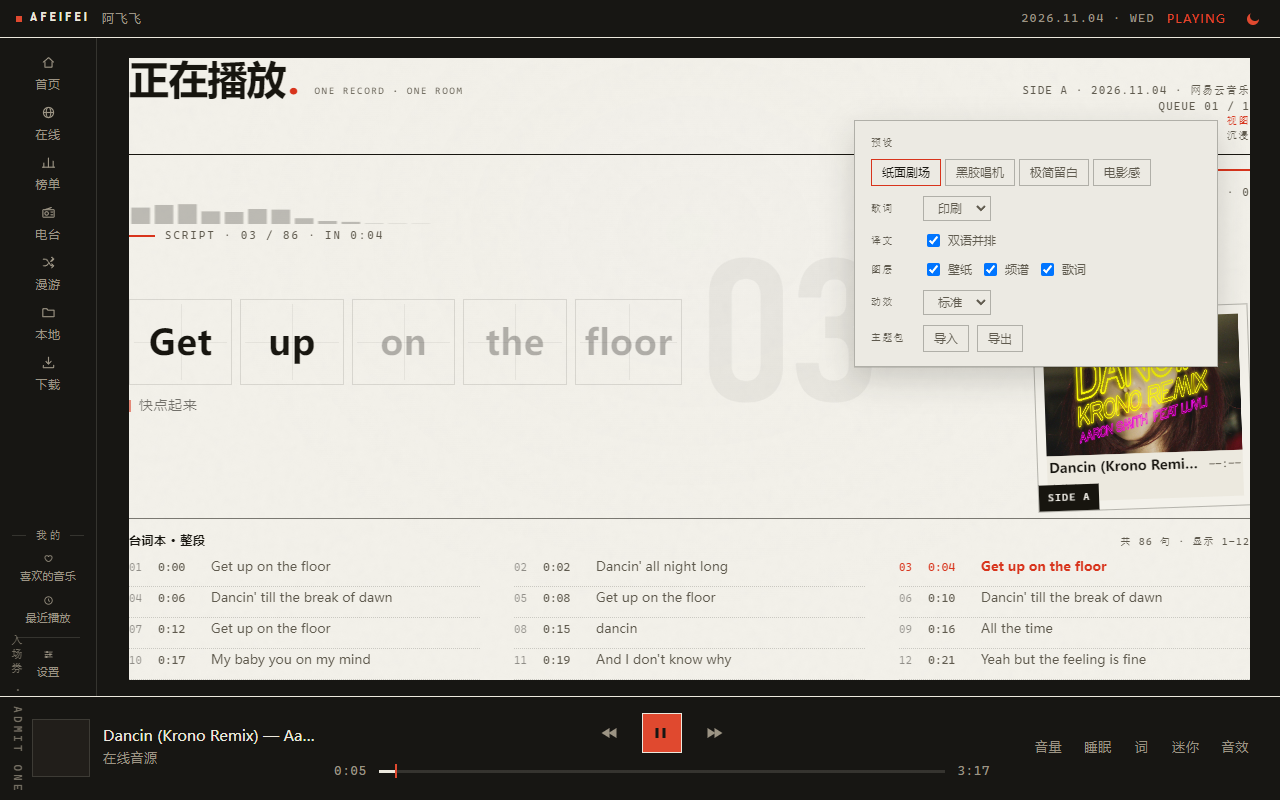
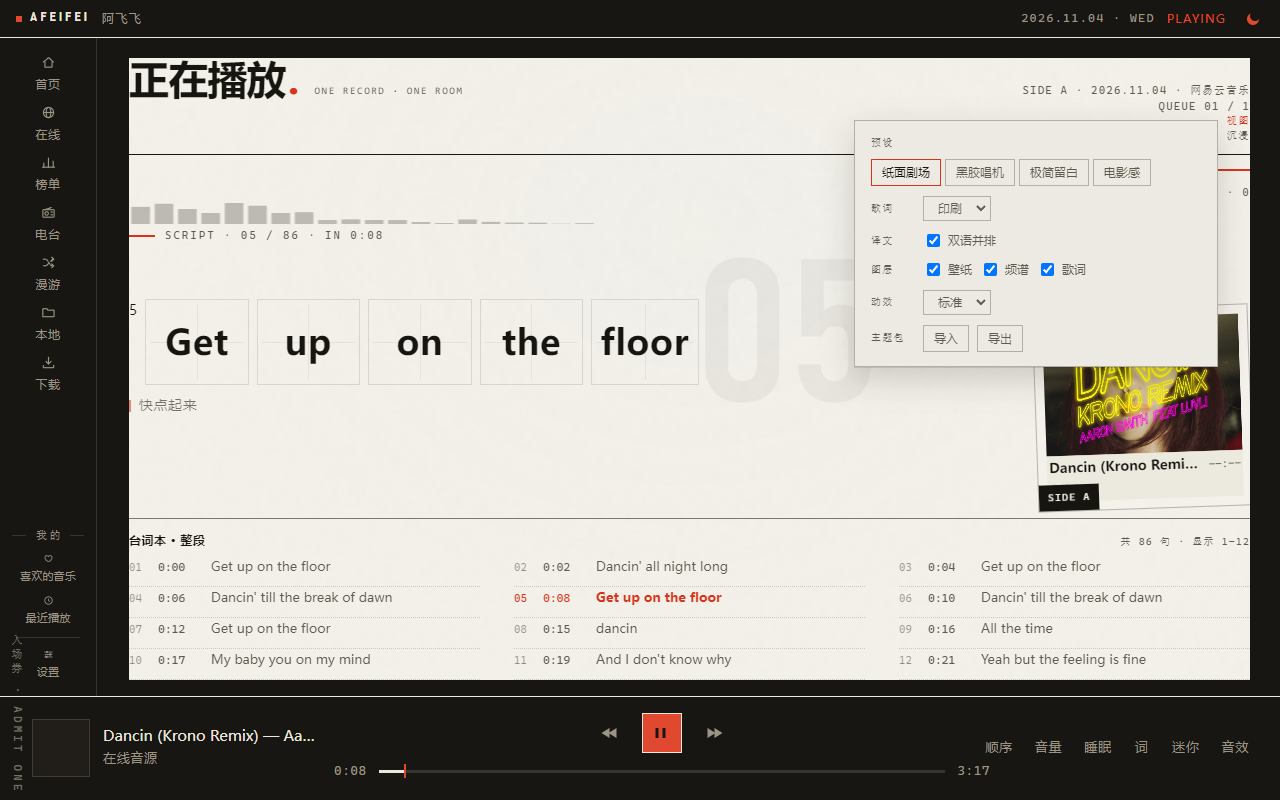
gate: 真机判据加 A-18/A-24 行为关（媒体会话/媒体键归属/全局快捷键注册）+ 单曲与随机两条降为记录型（上游 resolve 影响）+ docs/01 §7.1 先抄后造 / docs/02 取用台账 / docs/03 日志

diff --git a/docs/03-改动日志.md b/docs/03-改动日志.md
@@ -4,6 +4,38 @@
 
 ---
 
+## 2026-11-04 · 基础功能补齐：系统媒体会话 / 播放模式 / 全局快捷键 + 三个语义 bug 修正
+
+- **commit**：见下三笔（feature / fix / gate+docs）
+- **动机**：用户 2026-11-04 定「**先把一个播放器该有的功能做好，再添砖加瓦**；缺功能或不合理的，去 `F:\AI\mp-refs` 找最优解直接抄」。于是先做了一次基础功能盘点（20 项），再按缺口动手。
+- **改了**：
+  - **A-24 系统媒体会话**：`ui/media-session.ts`（新）抄 lx 的 `useMediaSessionInfo.ts` —— 静音保活 + metadata 异步换图 + 9 个 action handler + setPositionState；`main/mediaKeys.ts` 从"主路径"降为**兜底**（渲染层上报 MediaSession 可用 → 主进程注销 globalShortcut，避免**双触发**：按一次切两首）
+  - **A-18 播放模式**：页脚加「顺序/循环/单曲/随机」按钮（`ui/play-mode.ts`，档位与文案抄 lx）；命令面板同步可切
+  - **A-24 全局快捷键**（新功能）：`domain/shortcuts`（规则层：白名单/冲突检测/归一，抄 folia 的分层）+ `main/globalShortcuts.ts`（全量重注册 + 结果回报，抄 Twilight_Echo）+ 设置页录键区块（抄 Twilight_Echo 的录键边界）；7 个动作，键位存本机独立档
+  - **修 bug 1**：单曲循环下点「下一首」会重播本曲 → 按 lx 的 `isAutoToggle` 双路径改（手动切歌按列表走，自然结束才重播）
+  - **修 bug 2**：随机模式下界面「接下来」显示的是原顺序，不是真会播的那几首 → stage 改用 `orderOf` 投影，编号显示播放序位次；QUEUE 位次口径统一
+  - **修 bug 3**：切到随机时种子不变 → 每次进随机都是同一个排列（用户看着像"随机没生效"）→ 加 `nextShuffleSeed`（LCG 递进，纯函数）
+  - **修 bug 4**：播放错误只显示原始码（用户看不懂）→ 显示 `errorText` 人话 + 可重试错误给「重试」按钮
+  - **新功能**：「添加到队列」（`queue/add` intent，追加不打断播放；曲库行内 ≡ 按钮）
+  - `docs/01` 新增 §7.1「功能件：先抄后造」；`docs/02` 登记本轮 6 处取用
+- **关键决策**：① 媒体键不再由 globalShortcut 主路径承担 —— Chromium MediaSession 才是 Windows 上的正解（lx v2.2.0 已删全局媒体键注册）；② 抄的边界：**语义 + 结构 + 边界条件**照抄，事件系统/状态管理不抄；③ 真机判据观测点从"曲名"改成"队列位次"—— 在线曲目切歌要先 resolve vkey，曲名几十秒才变，位次才是准绳。
+- **坑**：
+  - `globalShortcut` 与 SMTC **同时**注册媒体键 = 按一次切两首（能力协商后才不双触发）
+  - rail 里**没有"播放"页**（播放页是点页脚 `.np` 封面进的）——判据里 `.textContent.includes('播放')` 点不到
+  - 沉浸态窄窗判定若靠 JS 的 resize 事件会迟到 → 改成 **CSS 媒体查询做主**（视口宽度是浏览器的事实），JS 类名只做语义标记
+  - `.st-viewbtn` 的**顺序**不能反：真机判据用 `querySelector('.st-viewbtn')` 取「视图」，「沉浸」必须排在后面
+  - smoke 偶发 `EPERM rename app-state.json.tmp` → Windows 文件锁 + 多实例写同一档案（重跑即绿，非本次改动引入）
+  - PERF 相对基线判定连续判红（3 轮绝对预算全 PASS、路径未动）→ 环境波动，未动基线
+- **判据**：真机全链绿（自愈扫描 → A-04/A-07/A-18/**A-24 媒体会话 + 主进程媒体键归属 + 全局快捷键 6 项已注册**/b2 沉浸态/A-10/A-02/A-03/A-14 双源/FM/搜索骨架/QQ 起播）；393 测试绿；lint/tsc/build/SMOKE PASS
+- **自评（开发尺）**：功能正确 24（−1：在线曲目无真实时长，相纸/进度显示 `--:--`）/ 不变式 19（−1：媒体键归属要靠能力协商，不是"天然只有一个写者"）/ 判据可红 17（−3：单曲切歌与随机显示两条真机判据因上游解析降为记录型，语义由单测钉住）/ 回归安全 15 / 规模 9（−1：ui/index.tsx 已 ~950 行）/ 诚实 10。**94** —— 差 1 分到 95，扣分项具体：① `ui/index.tsx` 超 400 行承载过多职责（媒体会话/快捷键/模式按钮/错误重试都塞在 App 根）；② 两条真机行为判据降级。**下一轮先拆分 App 根组件 + 把这两条判据重新变成硬判据**（用本地文件队列避免上游依赖）
+- **遗留**：
+  - **基础功能还没做的**（按优先级）：播放速度/倍速 UI、队列完整管理（能看全队列/下移/清空）、音量渐变、音质切换 UI（底层支持 128k/320k/flac，界面写死 320k）、音频输出设备选择（setSinkId）、无缝衔接 gapless、歌词/封面源设置、重复区间 AB
+  - 外观类暂挂（用户定"外观先不做"）：A-10 判据里 `.st-kb` 的 color 亮态读到 rgb(23,21,15)（外壳夜间 fg）→ 疑似 `.st-kb` 走了结构层 `--fg` 而非 `--stage-fg`，待专门排查
+  - 桌面歌词"切换"现在走主进程 `lyric:toggle`（渲染层看不到别的窗口，状态只能在主进程）
+  - 播放错误文案改动后，smoke 判据从"显示原始码"改为"显示人话 + 不可重试错误不给重试按钮"
+
+---
+
 ## 2026-11-04 · b2 沉浸态（stage-v10 b2「刻纹现场」）+ 真机判据真实化
 
 - **commit**：见下两笔（ui / gate）

diff --git a/docs/02-取用台账.md b/docs/02-取用台账.md
@@ -12,6 +12,12 @@
 | `NeteaseCloudMusicApi`（npm，MIT，4.32.0） | 第三方依赖 | 网易云 weapi/eapi 加密通道自己写成本高且易错；Folia 用的是同一套做法。只在主进程 `main/net/neteaseClient.ts` 内嵌，不进渲染 bundle |
 | ~~`qq-music-api`~~（npm，**无 license**，1.1.2） | 第三方依赖 | **已于 2026-11-03 移除**。无 license 未取用；已被下面的 MIT 包取代 |
 | `@yakult-green-tea/qq-music-api`（npm，**MIT**，3.3.5） | 第三方依赖 | QQ 扫码登录（MQTT/HTTP 双通道）+ 登录态会话 + 登录态播放地址，整包作为本地服务由主进程拉起（Folia 生产同款）。手写 ptlogin 协议被 TLS 指纹风控拒（2026-11-03 实测），"先验后写"在协议层不可行——换"用别人验证过的实现" |
+| **系统媒体会话**（MediaSession：静音保活 + 9 个 action handler + setPositionState） | `F:\AI\mp-refs\lx-music-desktop\src\renderer\core\useApp\usePlayer\useMediaSessionInfo.ts` | Windows 上 SMTC（系统媒体面板：封面/歌名/进度/媒体键）没有自研路径，Chromium 的 MediaSession 就是标准做法。lx 这份是"静音保活 + metadata 异步换图 + 9 个 handler"的完整版，比从零写省事且不漏 handler |
+| **全局快捷键**（动作表 + 全量重注册 + 注册结果回报） | `F:\AI\mp-refs\Twilight_Echo\src\main\integrations\shortcutsTray.ts` + `src\core\settings\normalization.ts` | 应用未聚焦也要能控播放，是桌面播放器的标配；Twilight_Echo 的结构（先全量注销再全量注册、逐项收集注册结果、失败原因回传渲染层）能直接落到我们的主进程/渲染层分工上 |
+| **快捷键规则层**（白名单校验 / 冲突检测 / 加速键归一） | `F:\AI\mp-refs\folia-major\src\components\command-palette\globalShortcuts\globalShortcutRules.ts` | folia 把"规则判定"抽成独立纯函数层，**设置页与注册流程共用同一份** —— 避免 UI 说没冲突、注册时失败。我们照抄这个分层（落在 `renderer/domain/shortcuts`） |
+| **录键交互**（keydown 捕获 / Esc 取消 / 裸键不收 / 重复不写入） | `F:\AI\mp-refs\Twilight_Echo\src\renderer\src\components\settings-page\ShortcutsSettingsSection.vue` | 录键的边界条件（纯修饰键、Tab 留给焦点、重复组合提示）自己写容易漏；这份把坑都踩过了 |
+| **单曲循环下手动切歌的语义** | `F:\AI\mp-refs\lx-music-desktop\src\renderer\core\player\action.ts`（`isAutoToggle` 双路径）+ folia `utils/playbackNeighbors.ts` + SPlayer `PlayerController.ts` | 三份实现一致：单曲循环只约束"自然结束"，用户主动点下一首照常切歌。我们原来把两条路径混在一个 `stepForward` 里 → 已按 lx 的双路径改掉 |
+| **播放模式档位与文案** | `F:\AI\mp-refs\lx-music-desktop\src\common\types\app_setting.d.ts` + `src\lang\zh-cn.json` | 四档（顺序/列表循环/单曲循环/随机）与中文文案是行业通行，lx 的档位表直接抄 |
 
 ## 待取（按里程碑排）
 

diff --git a/docs/01-施工流程.md b/docs/01-施工流程.md
@@ -628,6 +628,27 @@ for (const [name, [cmd, ...args]] of steps) {
 
 ---
 
+## 7.1 · 功能件：先抄后造（2026-11-04 用户定，硬规矩）
+
+**顺序：先把"一个播放器该有的功能"做齐，再添砖加瓦（视觉/动效/特色）。**
+
+缺哪个功能、或者哪个功能做得不合理（行为与通行做法不符），**不要自己从零设计**：
+
+1. 去参考实现里找**最优解** —— `F:\AI\mp-refs` 下现成的开源播放器源码：
+   - `lx-music-desktop`（Electron + Vue3，键位表、MediaSession、播放模式、错误分类最全）
+   - `folia-major`（Electron + React，规则层分层、全局快捷键、播放邻接计算）
+   - `Twilight_Echo`（Electron + Vue3，全局快捷键的设置页/注册流程最完整）
+   - `SPlayer` / `YesPlayMusic` / `SPlayer` 等（单点实现参考）
+2. **抄**它的实现（结构 + 语义 + 边界条件），只把风格换成本项目的：
+   - 抄**语义与结构**，不抄它的事件系统/状态管理（那是它的架构，不是功能）；
+   - 抄**边界条件**（空态、失败、被占用、并发），那是踩过的坑；
+   - 抄完在**本项目**跑通（单测 / 真机判据）才算取到，并登记进 `docs/02`。
+3. 抄不动或找不到最优解时，才自己设计 —— 且要在 `docs/03` 的「遗留」里写明"这是自研，参考了哪些实现"。
+
+**判据**：一个功能做完，先问"参考实现里最好的那家是怎么做的"，答不上来说明还没抄完。
+
+---
+
 ## 8. 出现这 6 个信号，立刻停下回退
 
 | # | 信号 | 说明什么 | 动作 |
